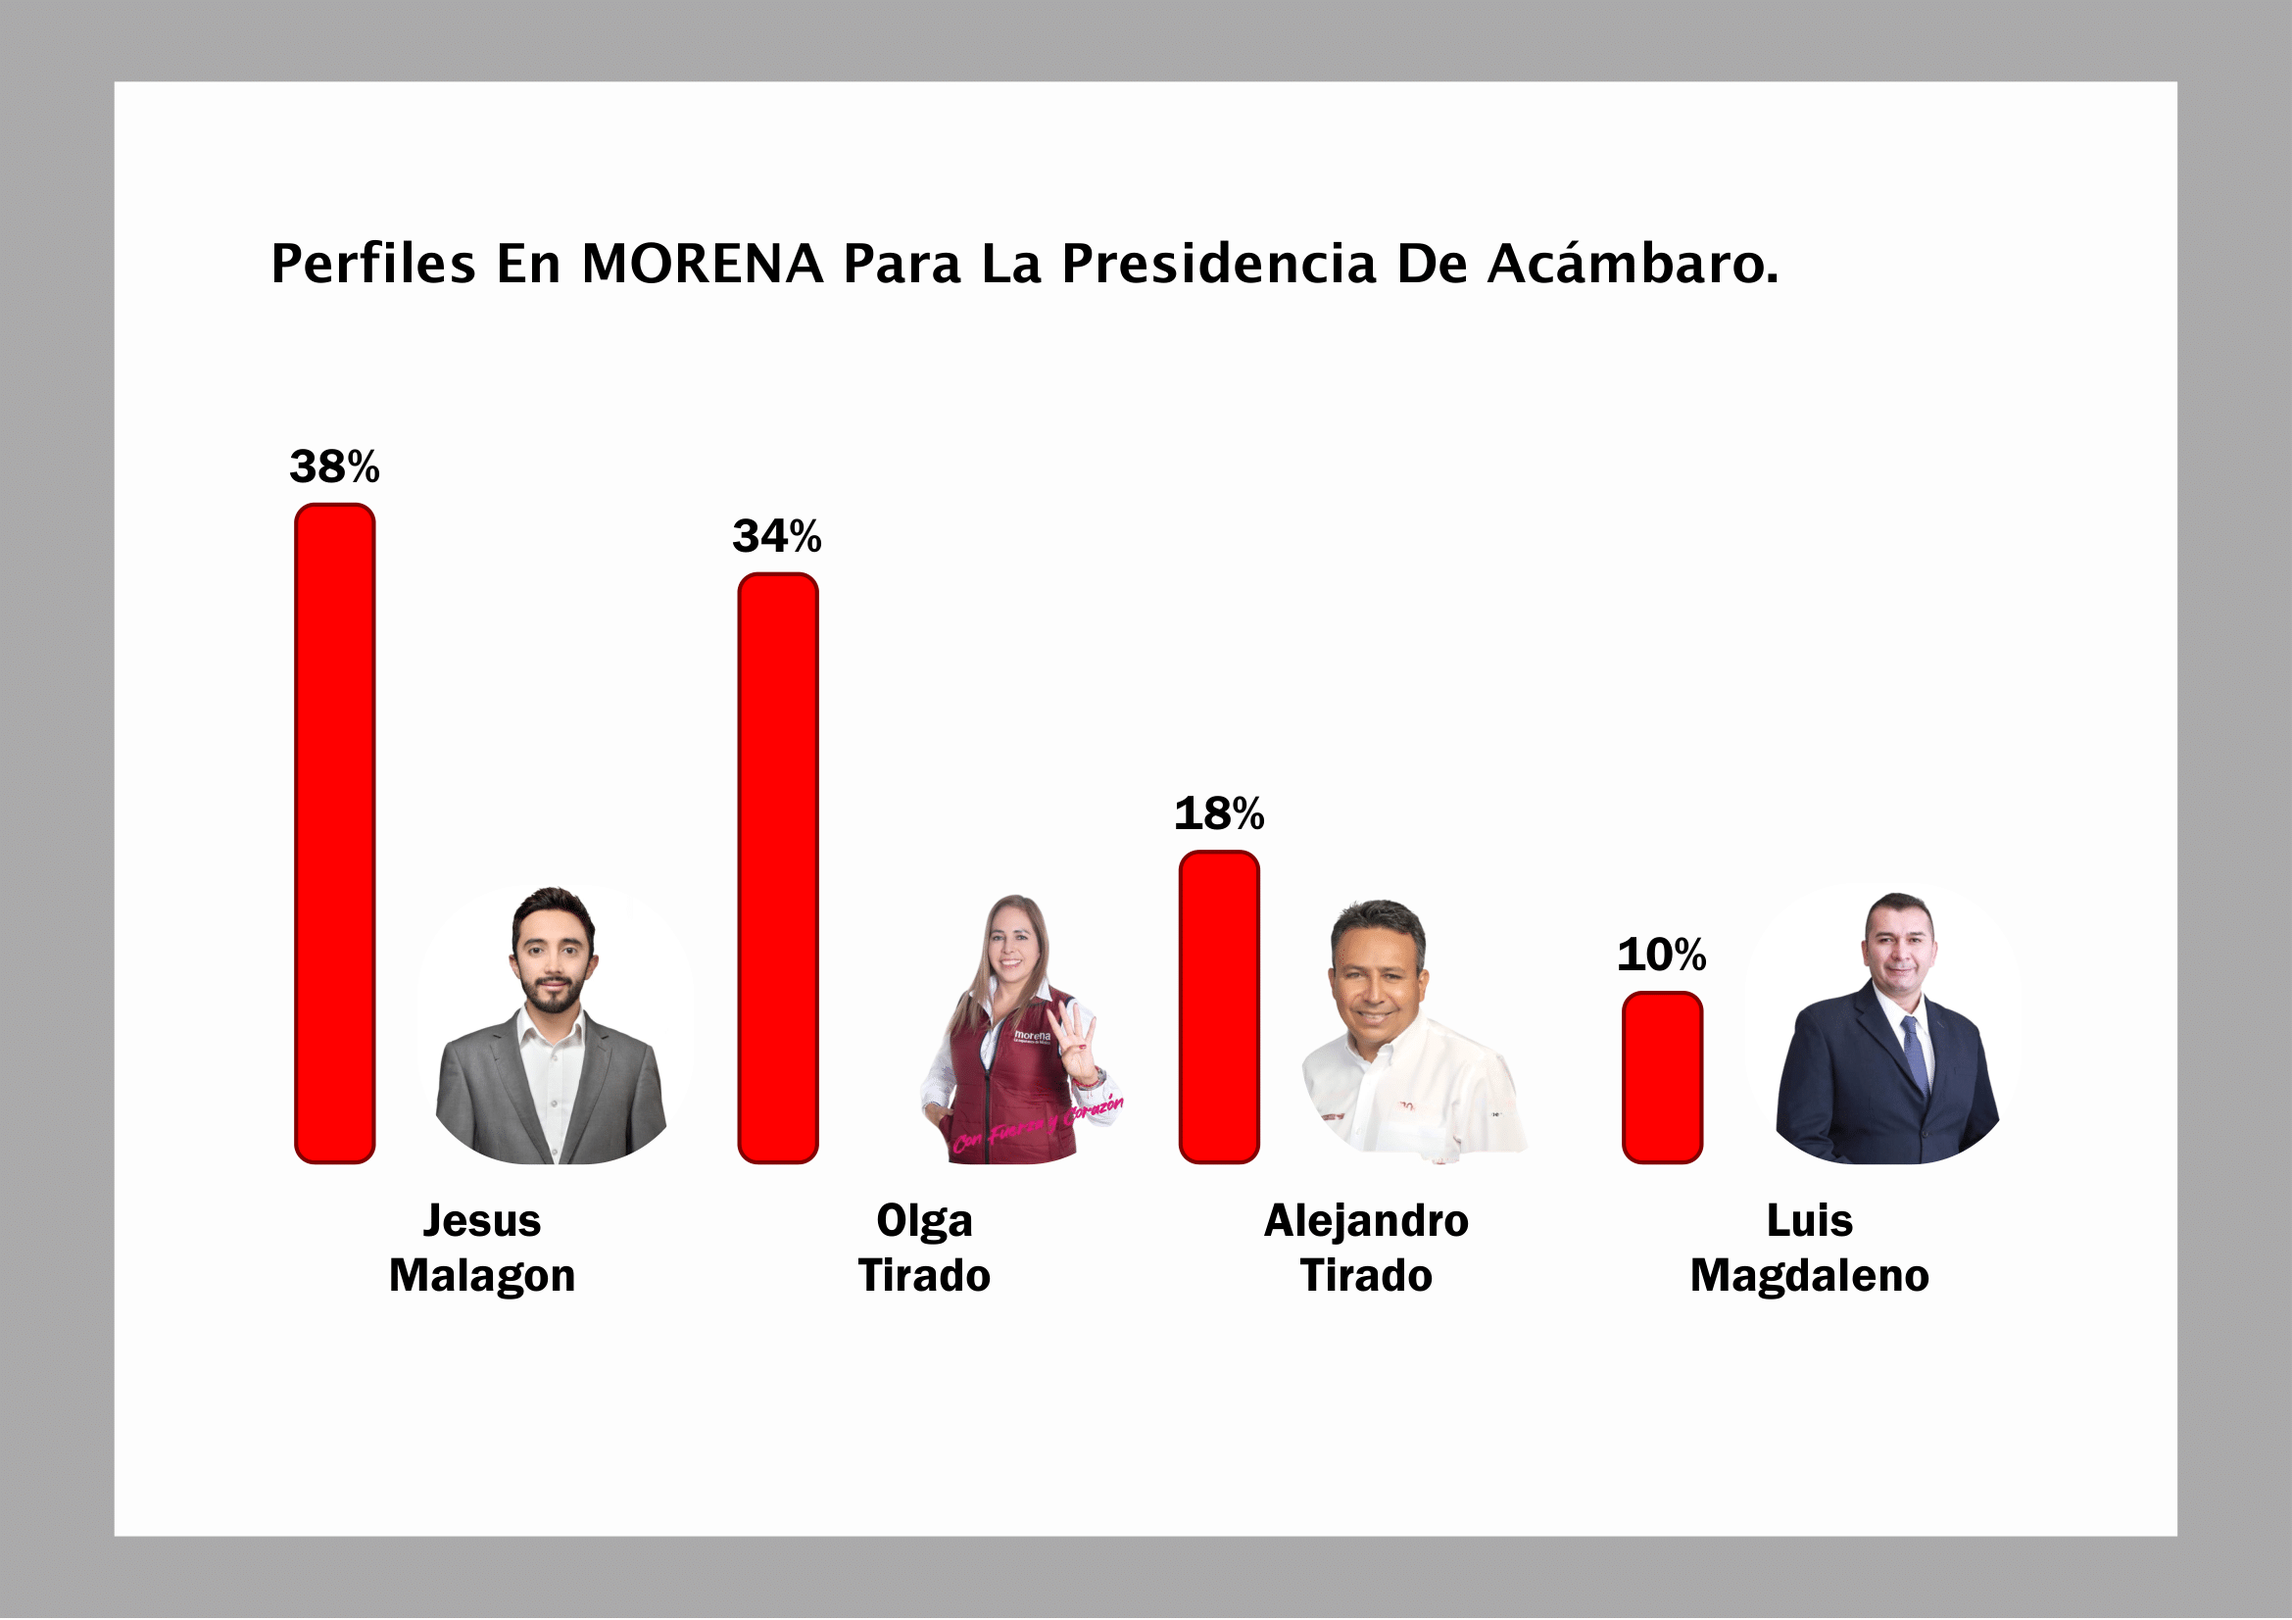
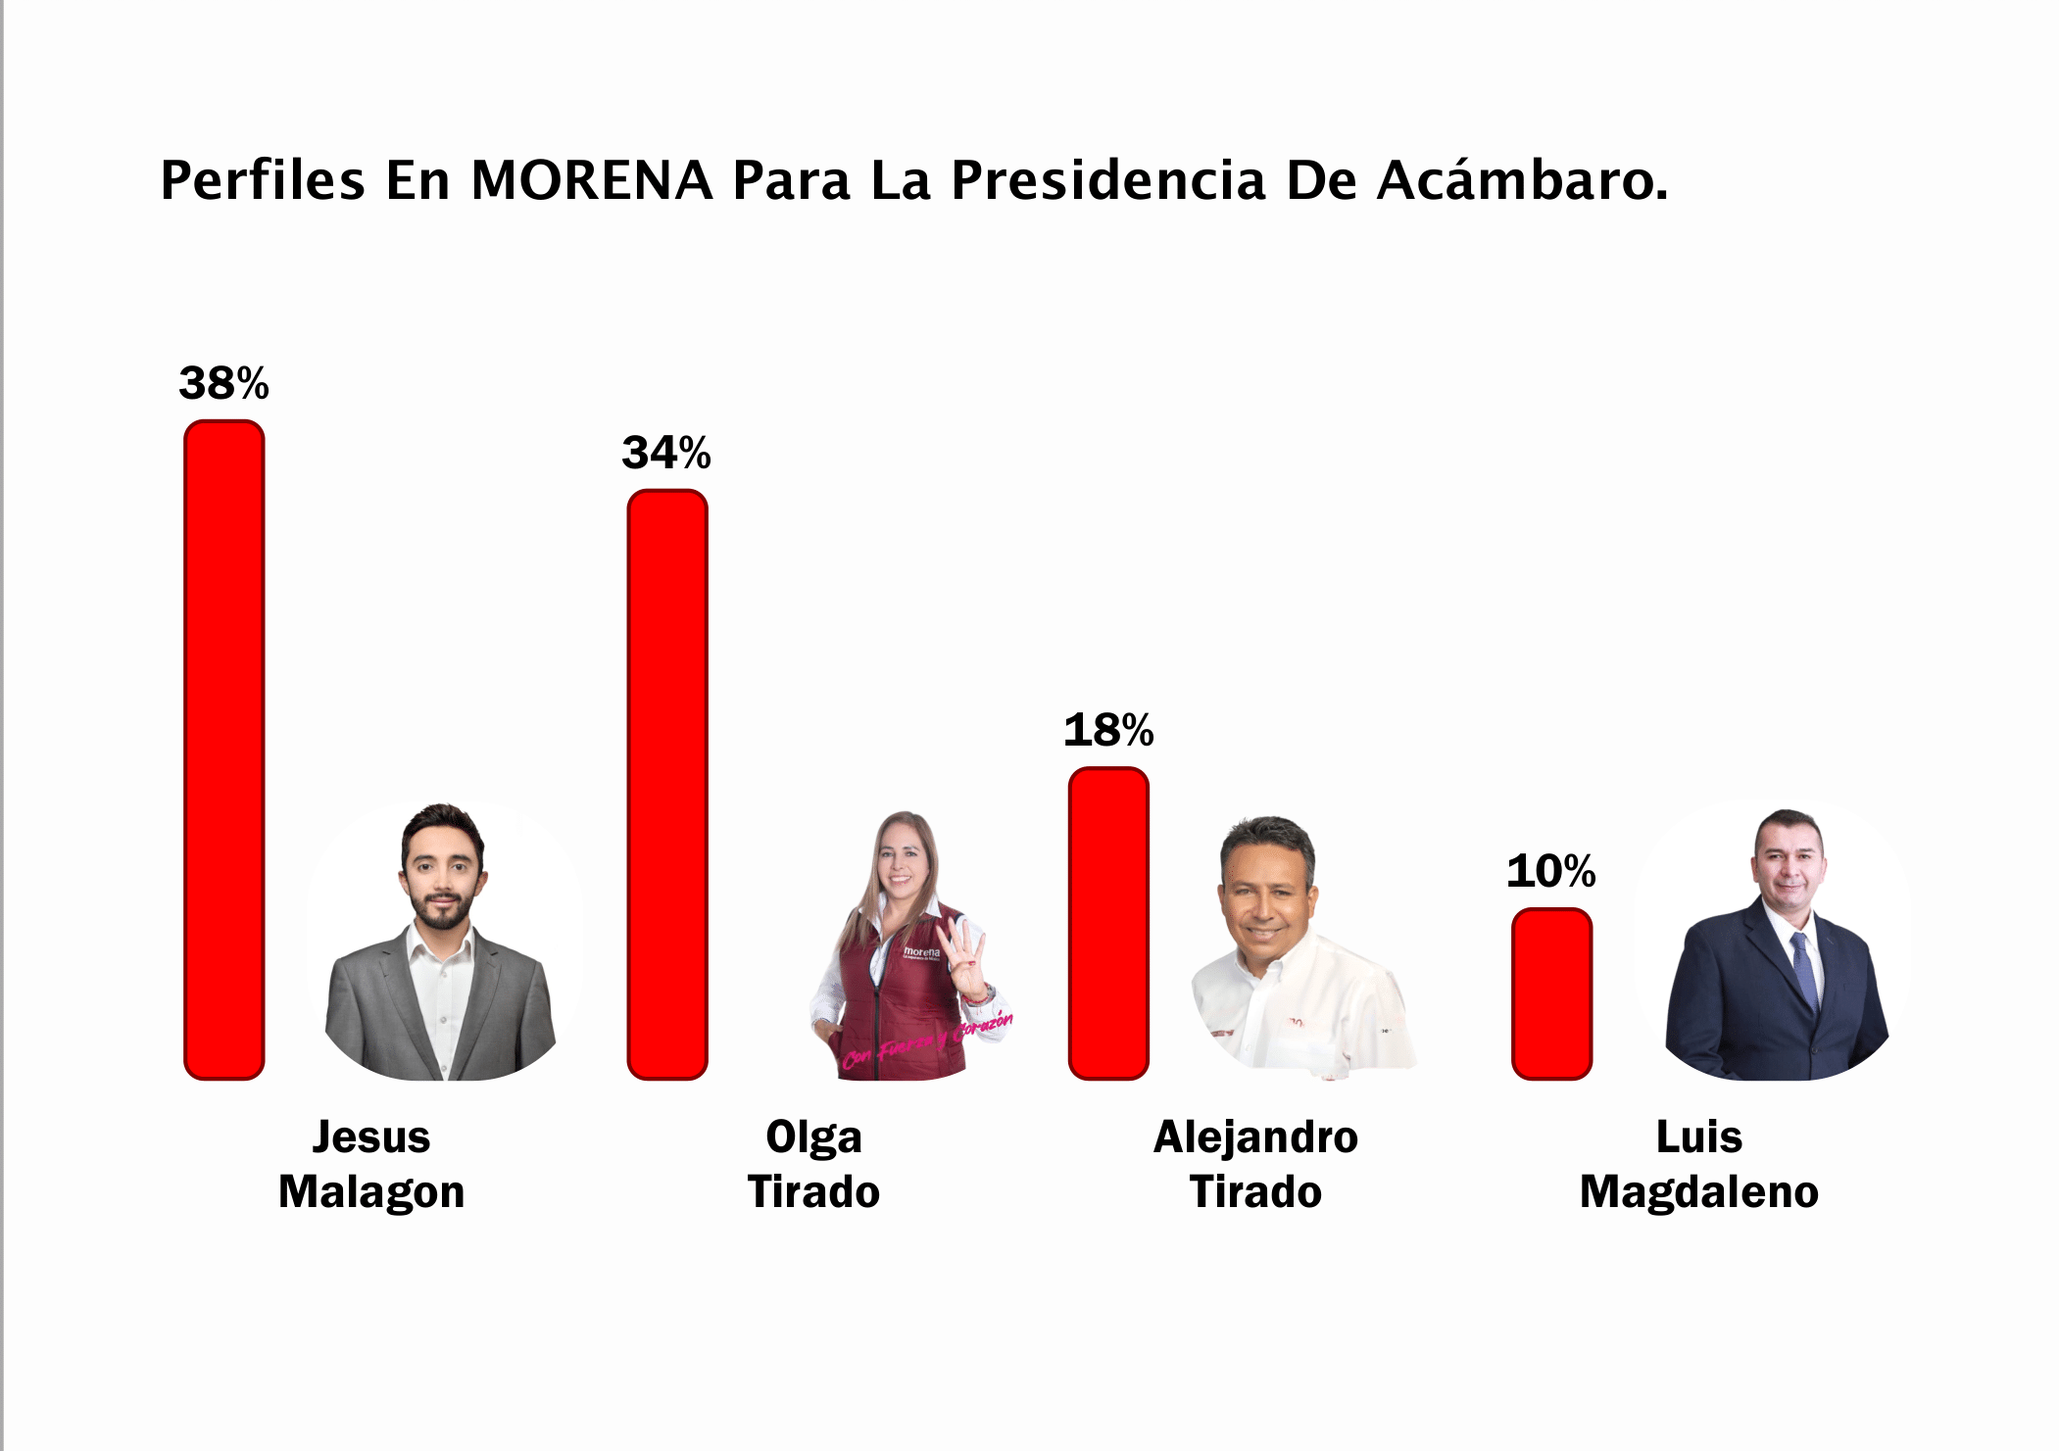
Cambio de titulo del archivo 20230224 Cambio de la image Reposicion de imagen con parrafo Espaciado en el parrafo.

diff --git a/site/20230224.html b/site/20230224.html
@@ -123,7 +123,8 @@
     <div class="modal"></div>
     <main>
       <article id="MainArticle">
-        <h2>Resultados de las encuestas del Primer Bimestre del 2023.</h2>
+        <h2>Resultados de las encuestas 2023.</h2>
+        <img src="../media/site/20230224.png" alt="">
         <p>
           MORENA Acámbaro: Se llevaron a cabo las encuestas internas de Morena
           en Acámbaro, entre el mes de enero y febrero donde la ciudadanía
@@ -146,10 +147,10 @@
           Sheffield, ya que los morenistas lo ven como el mejor perfil para
           encabezar los proyectos políticos en el estado de Guanajuato, y la
           militancia morenista, ve a Ricardo Sheffield como un cartucho quemado,
-          ya que perdió las elecciones en León Guanajuato. Columna por Julieta
-          Cárdenas.
+          ya que perdió las elecciones en León Guanajuato. 
+          <br><br>
+          Columna por Julieta Cárdenas.
         </p>
-        <img src="../media/site/20230224.png" alt="">
       </article>
 
       <!-- <section class="layout">

diff --git a/index.html b/index.html
@@ -109,7 +109,7 @@
       <section class="layout">
         <article class="Art1">
           <a  href="./site/20230224.html" target="_blank">
-            <h3>Resultados de las encuestas del Primer Bimestre del 2023</h3>
+            <h3>Resultados de las encuestas 2023</h3>
             <p>
               Se llevaron a cabo las encuestas internas de Morena
               en Acámbaro, entre el mes de enero y febrero donde la ciudadanía
@@ -117,7 +117,7 @@
               quien consideren mejor perfil para encabezar los proyectos políticos
               <span>Seguir Leyendo . . . </span>
             </p>
-            <img src="./media/site/20230224.png" alt="Grafica para presidencia de Acámbaro en Enero-Febrero 2023" title="Grafica para presidencia de Acámbaro en Enero-Febrero 2023" />
+            <img src="./media/site/20230224.png" alt="Grafica de Resultados de Encuestas 2023" title="Grafica para presidencia de Acámbaro en Enero-Febrero 2023" />
           </a>
         </article>
         <!-- <article class="Art2">

diff --git a/style.css b/style.css
@@ -364,7 +364,7 @@ main section nav ul li:hover a {
   gap: 8px;
 }
 #MainArticle{
-  background: #fff;
+  background: rgba(255,255,255,0.8);
   padding: 2em 1em 3em;
   display: flex;
   flex-direction: column;
